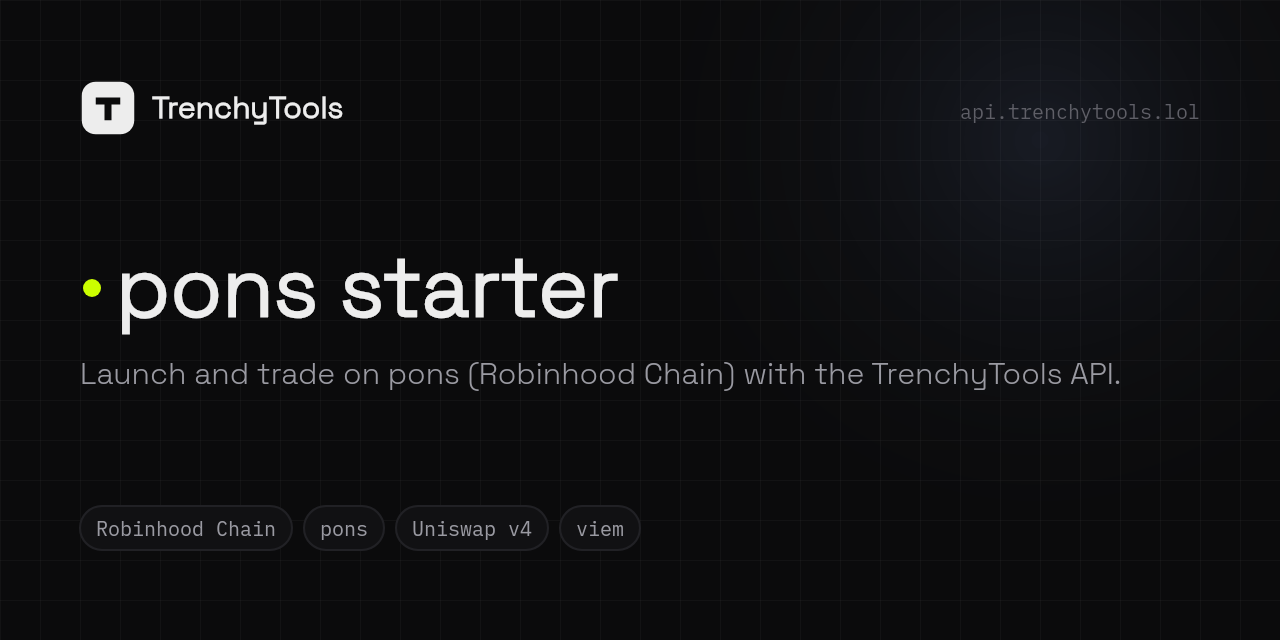
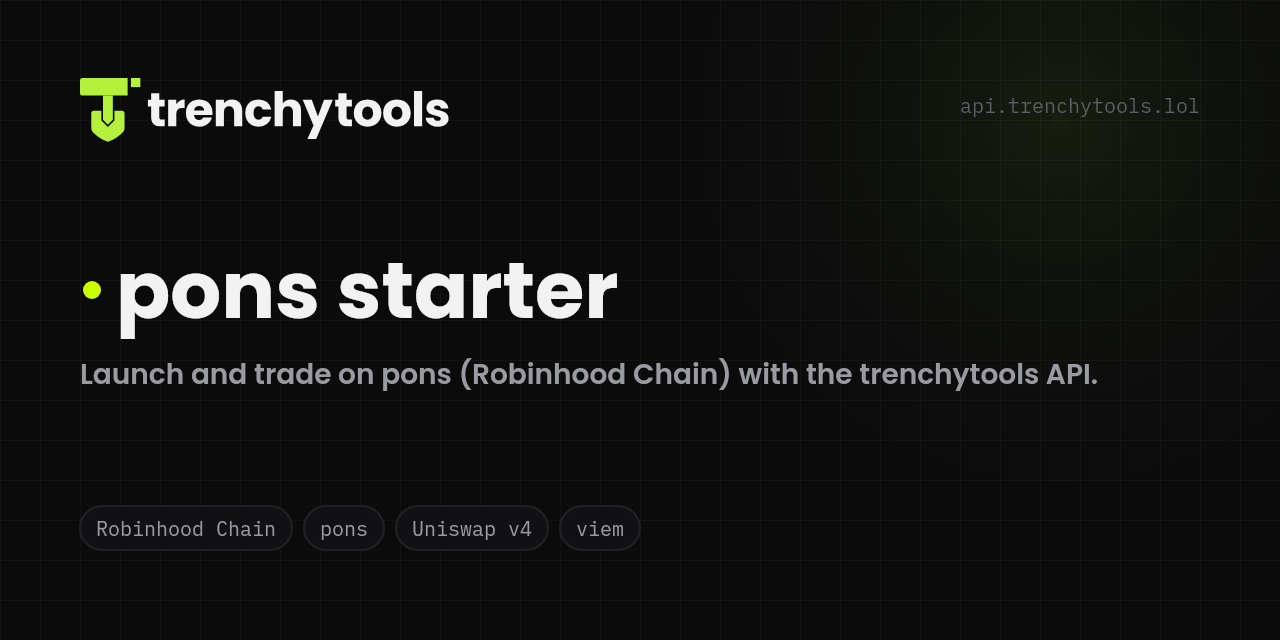
Release from trenchytools@dbb1f53

diff --git a/components/logo.tsx b/components/logo.tsx
@@ -1,22 +1,37 @@
 import { cn } from "@/lib/utils"
 
-/** The docs site's mark (apps/docs/apps/web/components/logo.tsx). */
-export function LogoMark({ className }: { className?: string }) {
+/**
+ * The trenchytools mark: a T that is also a shovel (digging in the trenches), with a pixel breaking off the handle.
+ * Generated from brand/paths.json (brand kit in the trenchytools monorepo); the lime is the brand colour and stays
+ * the same in light and dark mode. `small` drops the pixel for sizes under ~32 px.
+ */
+export function LogoMark({ className, small = false }: { className?: string; small?: boolean }) {
   return (
-    <svg viewBox="0 0 32 32" aria-hidden className={cn("size-5 shrink-0", className)}>
-      <rect x="1" y="1" width="30" height="30" rx="8" className="fill-foreground" />
-      <path d="M9 10h14v4h-5v9h-4v-9H9z" className="fill-background" />
+    <svg viewBox="0 0 332 352" aria-hidden className={cn("h-5 w-auto shrink-0", className)} fill="#B4F03C">
+      <path d="M14 0H262V96H14A14 14 0 0 1 0 82V14A14 14 0 0 1 14 0Z" />
+      {!small && <path d="M280 0H332V50H280Z" />}
+      <path d="M126.5 96H180.5V230L153.5 257L126.5 230Z" />
+      <path d="M76 180H117.5V233.73L153.5 269.73L189.5 233.73V180H231A14 14 0 0 1 245 194V276C245 300 205 328 160.5 348.5Q153.5 352 146.5 348.5C102 328 62 300 62 276V194A14 14 0 0 1 76 180Z" />
     </svg>
   )
 }
 
-/** Mark + name. */
+/** The wordmark "trenchytools" as outlines (Poppins Bold), in the current text colour. */
+export function Wordmark({ className }: { className?: string }) {
+  return (
+    <svg viewBox="366 0 1669 352" role="img" aria-label="trenchytools" className={cn("h-5 w-auto shrink-0", className)} fill="currentColor">
+      <path d="M449.74 228.01L465.73 228.01L465.73 266L442.93 266Q418.57 266 404.94 254.08Q391.32 242.16 391.32 215.17L391.32 215.17L391.32 157.01L373.50 157.01L373.50 119.80L391.32 119.80L391.32 84.17L436.12 84.17L436.12 119.80L465.46 119.80L465.46 157.01L436.12 157.01L436.12 215.70Q436.12 222.25 439.26 225.13Q442.41 228.01 449.74 228.01L449.74 228.01ZM529.65 144.17Q537.51 132.12 549.30 125.17Q561.09 118.23 575.50 118.23L575.50 118.23L575.50 165.65L563.19 165.65Q546.42 165.65 538.04 172.86Q529.65 180.06 529.65 198.14L529.65 198.14L529.65 266L484.85 266L484.85 119.80L529.65 119.80L529.65 144.17ZM729.04 190.54Q729.04 196.83 728.25 203.64L728.25 203.64L626.86 203.64Q627.90 217.27 635.63 224.47Q643.36 231.68 654.63 231.68L654.63 231.68Q671.40 231.68 677.95 217.53L677.95 217.53L725.63 217.53Q721.96 231.94 712.40 243.47Q702.84 255.00 688.43 261.55Q674.02 268.10 656.20 268.10L656.20 268.10Q634.72 268.10 617.95 258.93Q601.18 249.76 591.75 232.73Q582.32 215.70 582.32 192.90L582.32 192.90Q582.32 170.11 591.62 153.08Q600.92 136.05 617.69 126.88Q634.45 117.71 656.20 117.71L656.20 117.71Q677.42 117.71 693.93 126.62Q710.43 135.52 719.74 152.03Q729.04 168.54 729.04 190.54L729.04 190.54ZM627.12 178.75L683.19 178.75Q683.19 167.23 675.33 160.41Q667.47 153.60 655.68 153.60L655.68 153.60Q644.41 153.60 636.68 160.15Q628.95 166.70 627.12 178.75L627.12 178.75ZM835.93 118.23Q861.61 118.23 876.93 134.87Q892.26 151.51 892.26 180.59L892.26 180.59L892.26 266L847.72 266L847.72 186.61Q847.72 171.94 840.12 163.82Q832.53 155.70 819.69 155.70L819.69 155.70Q806.85 155.70 799.25 163.82Q791.65 171.94 791.65 186.61L791.65 186.61L791.65 266L746.85 266L746.85 119.80L791.65 119.80L791.65 139.19Q798.47 129.50 809.99 123.86Q821.52 118.23 835.93 118.23L835.93 118.23ZM908.77 192.90Q908.77 170.11 918.07 153.08Q927.37 136.05 944.01 126.88Q960.64 117.71 982.13 117.71L982.13 117.71Q1009.64 117.71 1028.11 132.12Q1046.58 146.53 1052.34 172.73L1052.34 172.73L1004.66 172.73Q998.63 155.96 981.34 155.96L981.34 155.96Q969.03 155.96 961.69 165.52Q954.36 175.09 954.36 192.90L954.36 192.90Q954.36 210.72 961.69 220.28Q969.03 229.84 981.34 229.84L981.34 229.84Q998.63 229.84 1004.66 213.08L1004.66 213.08L1052.34 213.08Q1046.58 238.75 1027.98 253.42Q1009.38 268.10 982.13 268.10L982.13 268.10Q960.64 268.10 944.01 258.93Q927.37 249.76 918.07 232.73Q908.77 215.70 908.77 192.90L908.77 192.90ZM1160.29 118.23Q1185.44 118.23 1200.64 134.87Q1215.83 151.51 1215.83 180.59L1215.83 180.59L1215.83 266L1171.29 266L1171.29 186.61Q1171.29 171.94 1163.69 163.82Q1156.10 155.70 1143.26 155.70L1143.26 155.70Q1130.42 155.70 1122.82 163.82Q1115.22 171.94 1115.22 186.61L1115.22 186.61L1115.22 266L1070.42 266L1070.42 72.12L1115.22 72.12L1115.22 139.45Q1122.04 129.76 1133.83 124.00Q1145.62 118.23 1160.29 118.23L1160.29 118.23ZM1342.12 119.80L1390.59 119.80L1298.89 335.43L1250.68 335.43L1284.21 261.02L1224.74 119.80L1274.78 119.80L1308.58 211.24L1342.12 119.80ZM1479.67 228.01L1495.65 228.01L1495.65 266L1472.85 266Q1448.49 266 1434.86 254.08Q1421.24 242.16 1421.24 215.17L1421.24 215.17L1421.24 157.01L1403.42 157.01L1403.42 119.80L1421.24 119.80L1421.24 84.17L1466.04 84.17L1466.04 119.80L1495.39 119.80L1495.39 157.01L1466.04 157.01L1466.04 215.70Q1466.04 222.25 1469.19 225.13Q1472.33 228.01 1479.67 228.01L1479.67 228.01ZM1581.32 268.10Q1559.84 268.10 1542.68 258.93Q1525.52 249.76 1515.69 232.73Q1505.87 215.70 1505.87 192.90L1505.87 192.90Q1505.87 170.37 1515.82 153.21Q1525.78 136.05 1543.07 126.88Q1560.36 117.71 1581.85 117.71L1581.85 117.71Q1603.33 117.71 1620.62 126.88Q1637.91 136.05 1647.87 153.21Q1657.83 170.37 1657.83 192.90L1657.83 192.90Q1657.83 215.43 1647.74 232.59Q1637.65 249.76 1620.23 258.93Q1602.81 268.10 1581.32 268.10L1581.32 268.10ZM1581.32 229.32Q1594.16 229.32 1603.20 219.89Q1612.24 210.46 1612.24 192.90L1612.24 192.90Q1612.24 175.35 1603.46 165.92Q1594.68 156.48 1581.85 156.48L1581.85 156.48Q1568.75 156.48 1560.10 165.78Q1551.45 175.09 1551.45 192.90L1551.45 192.90Q1551.45 210.46 1559.97 219.89Q1568.48 229.32 1581.32 229.32L1581.32 229.32ZM1742.45 268.10Q1720.97 268.10 1703.81 258.93Q1686.65 249.76 1676.82 232.73Q1667.00 215.70 1667.00 192.90L1667.00 192.90Q1667.00 170.37 1676.95 153.21Q1686.91 136.05 1704.20 126.88Q1721.49 117.71 1742.98 117.71L1742.98 117.71Q1764.46 117.71 1781.75 126.88Q1799.04 136.05 1809.00 153.21Q1818.96 170.37 1818.96 192.90L1818.96 192.90Q1818.96 215.43 1808.87 232.59Q1798.78 249.76 1781.36 258.93Q1763.94 268.10 1742.45 268.10L1742.45 268.10ZM1742.45 229.32Q1755.29 229.32 1764.33 219.89Q1773.37 210.46 1773.37 192.90L1773.37 192.90Q1773.37 175.35 1764.59 165.92Q1755.81 156.48 1742.98 156.48L1742.98 156.48Q1729.88 156.48 1721.23 165.78Q1712.58 175.09 1712.58 192.90L1712.58 192.90Q1712.58 210.46 1721.10 219.89Q1729.61 229.32 1742.45 229.32L1742.45 229.32ZM1837.03 72.12L1881.84 72.12L1881.84 266L1837.03 266L1837.03 72.12ZM1968.03 268.10Q1948.91 268.10 1933.97 261.55Q1919.04 255.00 1910.39 243.60Q1901.75 232.20 1900.70 218.05L1900.70 218.05L1944.98 218.05Q1945.76 225.65 1952.05 230.37Q1958.34 235.08 1967.51 235.08L1967.51 235.08Q1975.89 235.08 1980.48 231.81Q1985.06 228.53 1985.06 223.29L1985.06 223.29Q1985.06 217.01 1978.51 213.99Q1971.96 210.98 1957.29 207.31L1957.29 207.31Q1941.57 203.64 1931.09 199.58Q1920.61 195.52 1913.01 186.75Q1905.42 177.97 1905.42 163.03L1905.42 163.03Q1905.42 150.46 1912.36 140.11Q1919.30 129.76 1932.80 123.73Q1946.29 117.71 1964.89 117.71L1964.89 117.71Q1992.40 117.71 2008.25 131.33Q2024.10 144.96 2026.46 167.49L2026.46 167.49L1985.06 167.49Q1984.02 159.89 1978.38 155.44Q1972.75 150.98 1963.58 150.98L1963.58 150.98Q1955.72 150.98 1951.53 154.00Q1947.34 157.01 1947.34 162.25L1947.34 162.25Q1947.34 168.54 1954.02 171.68Q1960.70 174.82 1974.85 177.97L1974.85 177.97Q1991.09 182.16 2001.31 186.22Q2011.53 190.28 2019.26 199.32Q2026.98 208.36 2027.25 223.56L2027.25 223.56Q2027.25 236.39 2020.04 246.48Q2012.84 256.57 1999.34 262.33Q1985.85 268.10 1968.03 268.10L1968.03 268.10Z" />
+    </svg>
+  )
+}
+
+/** Mark + wordmark + what this is, used in the header, sidebar and footer. */
 export function Logo({ className }: { className?: string }) {
   return (
-    <span className={cn("inline-flex items-center gap-2 font-semibold tracking-tight", className)}>
-      <LogoMark />
-      TrenchyTools
-      <span className="text-muted-foreground font-normal">pons starter</span>
+    <span className={cn("inline-flex items-center gap-2", className)}>
+      <LogoMark className="h-[22px]" />
+      <Wordmark className="h-[22px]" />
+      <span className="text-muted-foreground text-[0.95em] font-normal">pons starter</span>
     </span>
   )
 }
